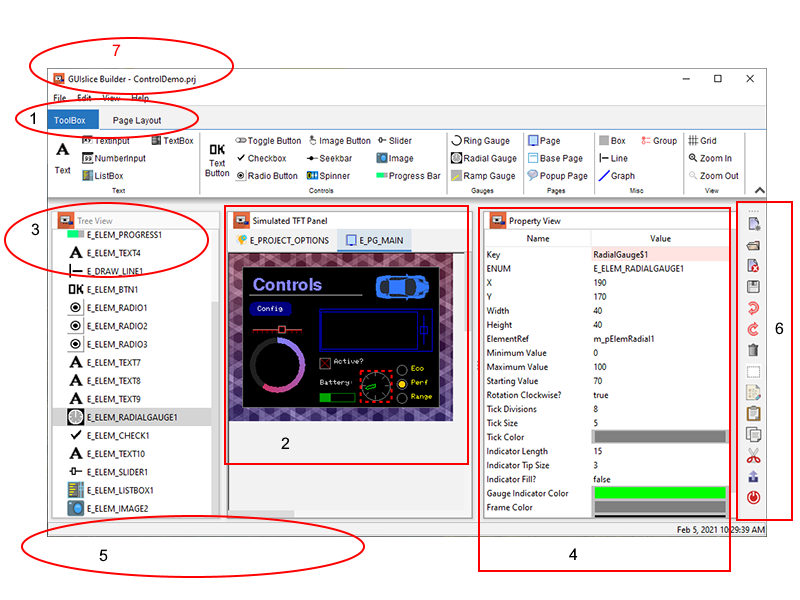
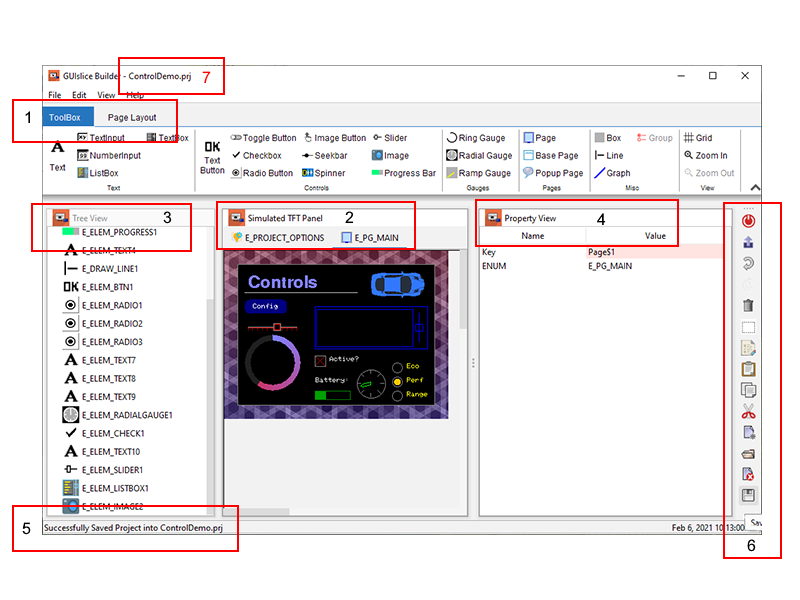
update userguide to 16-b7

diff --git a/builder/docs/user_guide.md b/builder/docs/user_guide.md
@@ -112,7 +112,7 @@ Install: <https://github.com/ImpulseAdventure/GUIslice/wiki/GUIslice-Builder>
 
 3. Treeview displays all elements you have selected in z-order of display.
 
-4. Property List allows you to view and change various properties of the selected UI Element.
+4. Property View allows you to view and change various properties of the selected UI Element.
 
 5. Status Bar will give confirmation messages, like your project has been saved.
 
